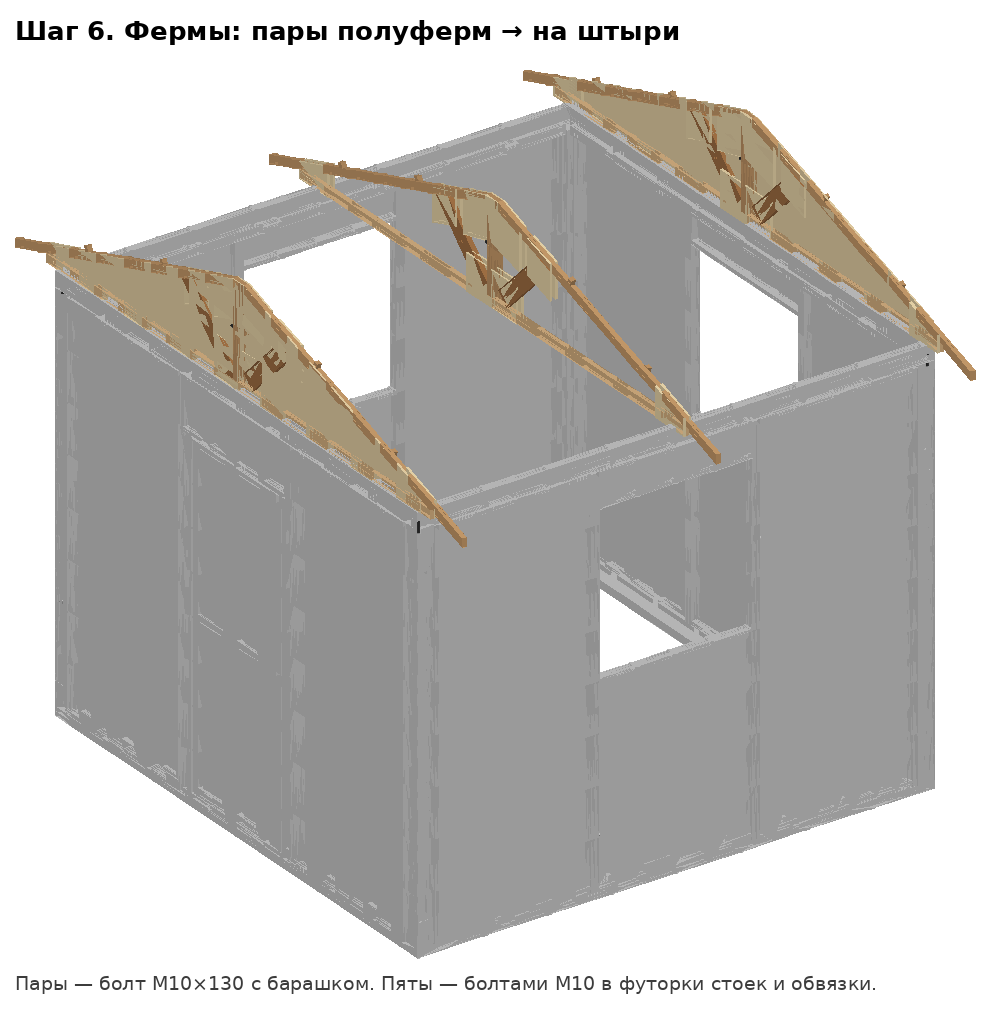
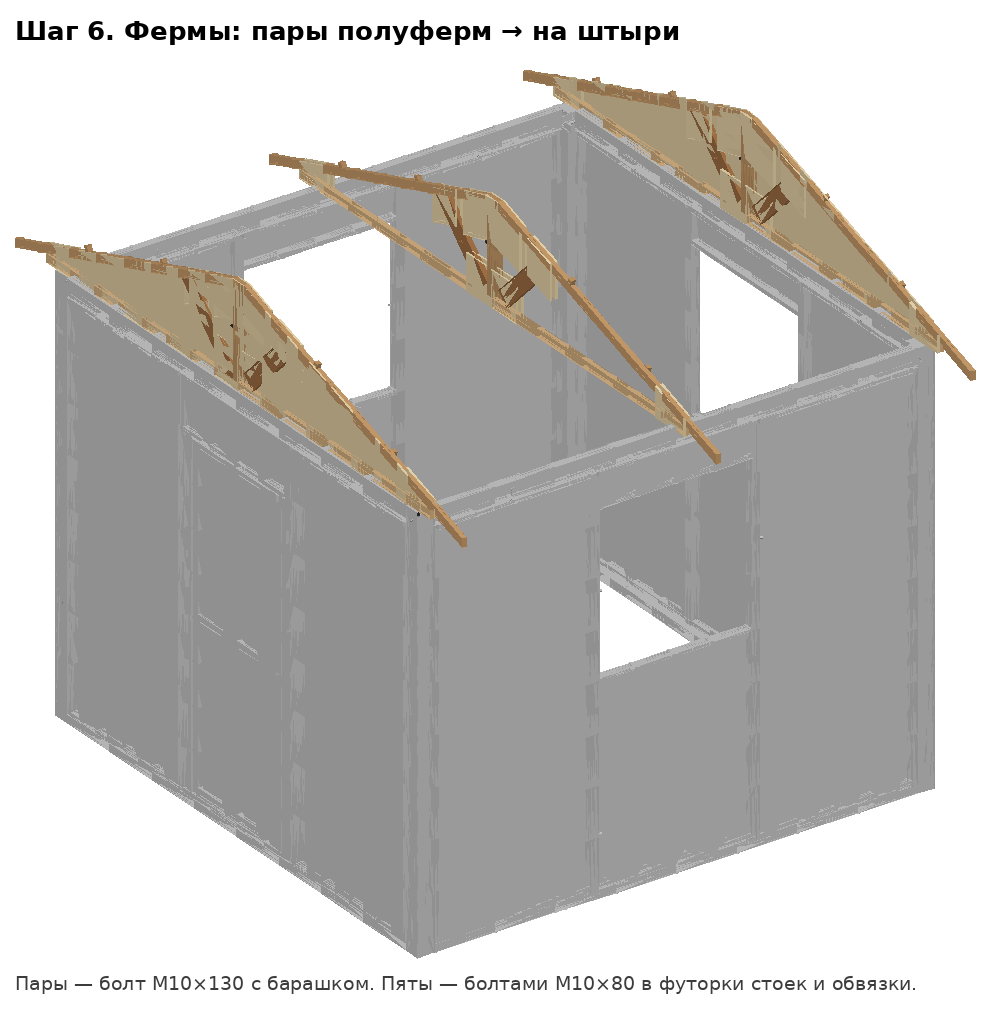
v5: regenerate illustrations for the bracket version
Claude-Session: https://claude.ai/code/session_01WZ3jooC47BZ8tQFmbRTbnu

diff --git a/tools/v5_draw.py b/tools/v5_draw.py
@@ -137,8 +137,8 @@ def main(out):
         ('шаг2_стойки', 'Шаг 2. Угловые стойки к лежням', base, posts, ['Стойка в угол, 2 болта М10×130 через уголки лежней. Диагонали равны.']),
         ('шаг3_обвязка', 'Шаг 3. Верхняя обвязка между стойками', base + posts, beams,
          ['На уголках, по болту М10×130 на каждый конец.']),
-        ('шаг4_пролёт', 'Шаг 4. Пролёт вставляется снаружи', frame, tilted,
-         ['Поставить на лежень между стойками: 4 болта М10×150 через стойки + 2 болта М10×80 в обвязку.']),
+        ('шаг4_пролёт', 'Шаг 4. Пролёт — между стойками на лежень', frame, tilted,
+         ['4 болта М10×150 через стойки,', '2 болта М10×80 снизу в обвязку.']),
         ('шаг5_пролёты', 'Шаг 5. Все 4 пролёта', frame, spans, ['Три пролёта «окно», пролёт «дверь» — на фронтон.']),
         ('шаг6_фермы', 'Шаг 6. Фермы: пары полуферм → на штыри', frame + spans, trusses,
          ['Пары — болт М10×130 с барашком. Пяты — болтами М10×80 в футорки стоек и обвязки.']),
